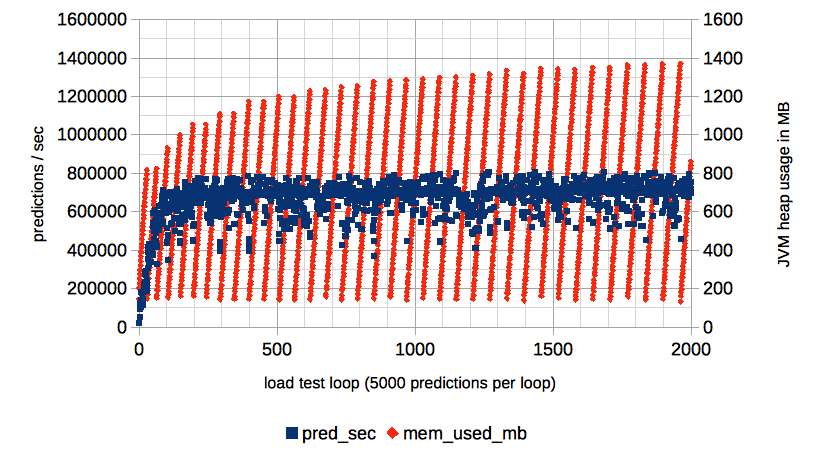
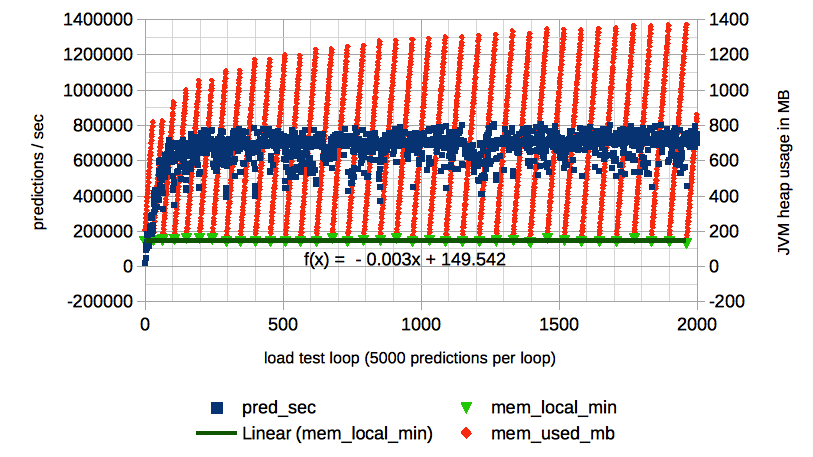
updated load-test.md

diff --git a/load-test.md b/load-test.md
@@ -1,0 +1,139 @@
+# Load Testing Aloha Models
+
+As of version `3.3.2-SNAPSHOT`, Aloha supports loading testing through the command line 
+interface (CLI).  This load test functionality is exposed through the *modelrunner* API 
+in `aloha-core`.  To load test, we recommend using the `aloha-cli/bin/aloha-cli` script.  
+An example follows:
+
+## Command 
+
+```bash
+cd aloha           # Change to the aloha root directory
+
+mvn clean package  # Build aloha if necessary.
+
+./aloha-cli/bin/aloha-cli \
+ -cp $(find $PWD/aloha-cli/target -name "*with*"):$(find $PWD/aloha-core/target -name "*-tests.jar") \
+ --modelrunner \
+   -p com.eharmony.aloha.test.proto.Testing.UserProto \
+   --imports "scala.math._,com.eharmony.aloha.feature.BasicFunctions._" \
+   --input-file file://$PWD/aloha-core/src/test/resources/fizz_buzzs.proto \
+   --output-file file://$PWD/loadtest-$(date "+%Y%m%d%H%M%S").txt \
+                                   \
+   --lt-pred-per-loop 1000         \
+   --lt-threads 5                  \
+   --lt-loops 2000                 \
+   --lt-report-loop-multiple 1     \
+   --lt-use-score-objects true     \
+                                   \
+   file://$PWD/aloha-core/src/test/resources/fizzbuzz_proto.json
+```
+
+## Parameter Explanations
+
+The `aloha-cli` requires a classpath argument `-cp` that contains all of the jars 
+necessary to run the CLI.  The first entry one will notice is the 
+`aloha-cli-[VERSION]-jar-with-dependencies.jar`.  This contains the code necessary to 
+run the infrastructure.  The second entry is for the jar that has the proto definitions. 
+This is only necessary when specififying the `-p` option along its argument: the protocol 
+buffer class name whose type is used as the model input domain.
+
+Like in other CLI use cases one can use the `--imports`, `--input-file`, `--output-file` 
+options.  The `--imports` option, like when creating a `CompiledSemantics` 
+programmatically, augments the capabilities available to the model feature specifications.
+
+The middle five parameters in the above command, prefixed by `--lt-` are load 
+test-specific parameters.  These include:
+
+- `--lt-pred-per-loop [INT]` The number of predictions to make per loop, per thread. If
+  the amount of input data provided is less than this value, then replicate the data to
+  reach the desired number.  If the number is amount of input data is greater than this
+  value, truncate the data to this size.
+- `--lt-threads [INT]` The number of concurrent threads in the load test.
+- `--lt-loops [INT]`  The number of times to loop over dataset that is expanded or 
+  pruned to be the size listed in `--lt-pred-per-loop`.
+- `--lt-report-loop-multiple [INT]` How often to report the statistics. 1 reports on 
+  every loop, 2 on every 2 loops, etc.
+- `--lt-use-score-objects [true | false]`  Whether to use Aloha's more heavyweight `score` 
+  function (*true*) or the lightweight `apply` (*false*) method.  
+
+**If any of the load test parameters is provided, a load test will be run.**  In this 
+event, sensible default values for omitted parameters will be used.
+
+## Results
+
+If we `cat` the output file produced from the above command, we get something like the 
+following:
+
+```bash
+cat loadtest-20160922142518.txt | head 
+```
+
+```
+loop_number	pred_sec	running_pred	running_nonempty_pred	mem_used_mb	mem_unallocated_mb	unixtime_ns
+0	Infinity	0	0	142.41931	3498.5806	4834312901301
+1	18936.408	5000	5000	201.97498	3439.025	4834577862035
+2	50372.32	10000	10000	225.45836	3415.5417	4834677300677
+3	92686.39	15000	15000	248.94174	3392.0583	4834731394737
+4	102816.56	20000	20000	272.42514	3368.575	4834780174251
+5	123596.555	25000	25000	295.90848	3345.0916	4834820794341
+6	132132.03	30000	30000	319.3919	3321.6082	4834858794000
+7	138070.47	35000	35000	342.87524	3298.1248	4834895184309
+8	104266.12	40000	40000	366.35858	3274.6414	4834943322331
+...
+```
+
+which, when graphed, looks like this:
+
+![Load Test Companion](https://raw.githubusercontent.com/eHarmony/aloha/114-cli-load-test-doc/src/site/resources/images/load-test-example-output.png "Load Test Companion")
+
+
+There are a few things this graph shows us.  Firstly, the prediction speed (*in blue*)
+ramps up over the first 100 or so loops or about *500K* predictions.  After this, the 
+prediction speed remains relatively constant.  The point-wise speed distribution can be 
+computed by taking a sliding sample centered at a given loop number and the quantile
+statistics can be used to provide confidence bands if so desired.
+
+When analyzing the memory (*in red*), one should note the regular diagonal stripes.  This
+indicates that memory is increasing until the point where the stripe reaches a local 
+maximum.  At this point, memory is garbage collected and the memory drops to a local 
+minimum.  Notice the trend of the local maxima.  These values appear to be increasing at
+a roughly logarithmic rate.  This is okay and is intimately related to the widening gap
+between the stripes over time.  The increase in local maxima indicates that the maximum 
+memory *in use* increases between garbage collections.  The reason is that garbage 
+collection frequency is decreasing, which can be seen by the widening gap between stripes. 
+The more important characteristic of the memory graph is **the trend of the local minima.** 
+It's apparent in the graph that the trend line is flat (and even slightly negative).  This
+constant nature is an indication that there are no memory leaks.
+
+To get the local minima data, we can write some quick Scala code that uses a sliding 
+window to find the minima.
+
+
+```scala
+// Get loop number and memory data.
+val data = 
+  io.Source.fromFile("loadtest-20160922142518.txt").
+    getLines.
+    drop(1).
+    map{ l => 
+      val a = l.split("\t")
+      (a(0).toInt, a(4).toDouble)
+    }.toVector
+
+// Find local minima in the middle of the dataset.
+val minimaMiddle = 
+  data.sliding(3).
+    collect { 
+      case Vector((i1, v1),(i2, v2),(i3, v3)) if v1 >= v2 && v2 <= v3 => (i2.toInt, v2) 
+    }.toVector
+
+// Find local minima at ends of data.    
+val firstMinimum = data.take(if (data(0)._2 < data(1)._2) 1 else 0)
+val lastMinimum = data.takeRight(if (data.last._2 < data(data.size - 2)._2) 1 else 0)
+val minima = (firstMinimum ++: minimaMiddle) ++ lastMinimum
+
+// Print the results in TSV format.
+minima.foreach{ case(i, v) => println(s"$i\t$v") }
+```
+
